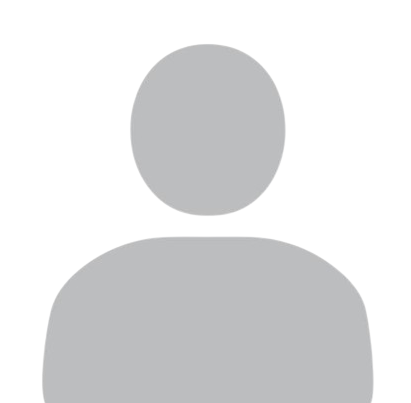
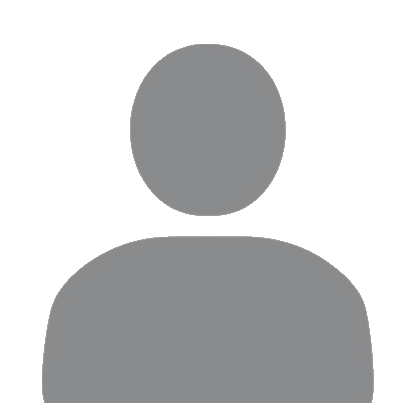
User Account and Profile Pages woking continue and set routing on it pages

diff --git a/client/src/components/Sidebar.jsx b/client/src/components/Sidebar.jsx
@@ -6,9 +6,9 @@ import LogoLight from "../assets/logo-light.png";
 import User from "../assets/user.png";
 
 // Import React Icons
-import { MdOutlineExplore } from "react-icons/md";
+import { MdOutlineExplore, MdOutlineMapsHomeWork } from "react-icons/md";
 import { MdOutlineRealEstateAgent } from "react-icons/md";
-import { RiMessage2Line } from "react-icons/ri";
+import { RiAccountBoxLine, RiMessage2Line } from "react-icons/ri";
 import { RiTeamLine } from "react-icons/ri";
 import { FaXmark } from "react-icons/fa6";
 import { PiSignOutBold, PiSignInBold } from "react-icons/pi";
@@ -17,12 +17,10 @@ import { useSelector } from "react-redux";
 const Sidebar = ({ isOpenSidebar, setIsOpenSidebar }) => {
   const location = useLocation();
   const { authenticUser } = useSelector((state) => state?.user);
-  const [isActiveTab, setIsActiveTab] = useState(
-    location.pathname.split("/")[1]
-  );
+  const [isActiveTab, setIsActiveTab] = useState(location.pathname);
 
   useEffect(() => {
-    setIsActiveTab(location.pathname.split("/")[1]);
+    setIsActiveTab(location.pathname);
   }, [location]);
 
   return (
@@ -61,18 +59,20 @@ const Sidebar = ({ isOpenSidebar, setIsOpenSidebar }) => {
 
         {/* Sidebar Body */}
         <div className="w-full h-[90%] relative flex flex-col">
+          {/* Navigations */}
           <div className="w-full h-[70%] pr-[0.6rem] pt-[1.5rem] pb-[1rem]">
             <ul className="w-full flex flex-col gap-[0.8rem]">
               {[
                 [MdOutlineExplore, "Explore", "/explore"],
-                [MdOutlineRealEstateAgent, "Add Property", "/add-property"],
                 [RiTeamLine, "About", "/about"],
                 [RiMessage2Line, "Contact", "/contact"],
+                [MdOutlineRealEstateAgent, "Add Property", "/add-property"],
+                [MdOutlineMapsHomeWork, "My Properties", "/user/properties"],
               ].map(([Icon, title, route], index) => (
                 <li
                   key={index}
                   className={`${
-                    isActiveTab === route.split("/")[1]
+                    isActiveTab === route
                       ? "before:translate-x-[-20%]"
                       : "before:translate-x-[-100%] hover:before:translate-x-[0%]"
                   } w-full relative overflow-hidden before:content-[''] before:w-[100%] before:h-[100%] before:z-0 before:absolute before:top-0 before:left-0 before:bg-[#0c2e38] before:rounded-e-full before:transition before:ease-out before:duration-[0.4s] peer/navItem`}
@@ -81,13 +81,13 @@ const Sidebar = ({ isOpenSidebar, setIsOpenSidebar }) => {
                     to={route}
                     onClick={() => setIsOpenSidebar(!isOpenSidebar)}
                     className={`${
-                      isActiveTab === route.split("/")[1]
+                      isActiveTab === route
                         ? "text-theme-yellow border-theme-yellow border-l-[0.3rem]"
                         : "text-white border-white hover:border-l-[0.3rem]"
                     } w-full relative z-10 flex items-center gap-[1.5rem] px-[1.5rem] py-[1rem]`}
                   >
-                    <Icon className="text-[2.6rem]" />
-                    <span className="text-[2.3rem] leading-[2rem] font-semibold">
+                    <Icon className="text-[2.5rem]" />
+                    <span className="text-[2.2rem] leading-[2rem] font-semibold">
                       {title}
                     </span>
                   </Link>
@@ -96,8 +96,9 @@ const Sidebar = ({ isOpenSidebar, setIsOpenSidebar }) => {
             </ul>
           </div>
 
+          {/* Footer  */}
           <footer className="w-full flex flex-col px-[0.8rem] py-[1.5rem] absolute z-50 bottom-0 border-t-[0.2rem] border-cyan-950">
-            {/* Profile and Logout Buttons */}
+            {/* Signin Button */}
             {!authenticUser && (
               <div className="w-full">
                 <Link to={"/account/sign-in"}>
@@ -112,29 +113,37 @@ const Sidebar = ({ isOpenSidebar, setIsOpenSidebar }) => {
               </div>
             )}
 
-            {/* Profile and Logout Buttons */}
+            {/* Profile, Account and Logout Buttons */}
             {authenticUser && (
               <div className="w-full flex flex-col gap-[1.5rem]">
-                <Link to={"/profile"}>
+                <Link to={"/user/profile"}>
                   <button
                     onClick={() => setIsOpenSidebar(!isOpenSidebar)}
-                    className="w-full relative flex items-center gap-[1.2rem] px-[1.2rem] py-[1rem] text-[2.2rem] leading-[3.2rem] text-cyan-950 font-semibold bg-white cursor-pointer rounded-full transition-all hover:bg-theme-yellow active:scale-[0.98]"
+                    className="w-full relative flex items-center gap-[1.2rem] px-[1.2rem] py-[0.7rem] text-[2.2rem] leading-[3.2rem] text-white font-semibold bg-transparent border-[0.2rem] border-white cursor-pointer rounded-full transition-all hover:bg-theme-blue active:scale-[0.98]"
                   >
                     <img
                       src={User}
                       alt="profile"
-                      className="w-[2.9rem] rounded-full bg-cyan-950 p-[0.2rem]"
+                      className="w-[2.9rem] rounded-full bg-white p-[0.2rem]"
                     />
                     <span>Profile</span>
-                    <span className="flex items-center justify-center min-w-[3rem] min-h-[3rem] p-[0.4rem] absolute right-[0.8rem] text-[1.4rem] leading-[1rem] font-semibold font-quick text-white bg-red-500 rounded-full overflow-hidden">
-                      99+
-                    </span>
                   </button>
                 </Link>
 
+                <Link to="/user/account">
+                  <button
+                    onClick={() => setIsOpenSidebar(!isOpenSidebar)}
+                    className="w-full relative flex items-center gap-[1rem] px-[1.4rem] py-[0.7rem] text-[2.2rem] leading-[3.2rem] text-cyan-950 font-semibold bg-white cursor-pointer rounded-full transition-all hover:bg-theme-yellow active:scale-[0.98]"
+                  >
+                    <RiAccountBoxLine size={"3rem"} />
+                    <span>Account</span>
+                  </button>
+                </Link>
+
+                {/* Logout Button */}
                 <button
                   onClick={() => setIsOpenSidebar(!isOpenSidebar)}
-                  className="w-full relative flex items-center gap-[1rem] px-[1.4rem] py-[1rem] text-[2.2rem] leading-[3.2rem] text-cyan-950 font-semibold bg-white cursor-pointer rounded-full transition-all hover:bg-theme-yellow active:scale-[0.98]"
+                  className="w-full relative flex items-center gap-[1rem] px-[1.4rem] py-[0.7rem] text-[2.2rem] leading-[3.2rem] text-cyan-950 font-semibold bg-white cursor-pointer rounded-full transition-all hover:bg-theme-yellow active:scale-[0.98]"
                 >
                   <PiSignOutBold size={"3rem"} />
                   <span>Logout</span>

diff --git a/client/src/components/Header.jsx b/client/src/components/Header.jsx
@@ -82,7 +82,7 @@ const Header = ({ setIsOpenSidebar }) => {
             <div className="authBtns hidden tabletSm:flex items-center gap-[1.4rem]">
               {/* Signin Button */}
               <Link to="/account/sign-in">
-                <button className="signinBtn text-[1.7rem] leading-[1.6rem] font-semibold text-theme-blue p-[0.8rem] rounded-md hover:text-theme-yellow border-[0.2rem] border-theme-blue hover:bg-theme-blue hover:text-white transition-all ">
+                <button className="signinBtn text-[1.7rem] leading-[1.6rem] font-semibold text-theme-blue p-[0.8rem] rounded-md border-[0.2rem] border-theme-blue hover:bg-theme-blue hover:text-theme-yellow transition-all ">
                   Sign in
                 </button>
               </Link>
@@ -98,7 +98,7 @@ const Header = ({ setIsOpenSidebar }) => {
 
           {/*  Add Property Button & Profile Avatar */}
           {authenticUser && (
-            <div className="profile relative hidden tabletSm:flex items-center gap-[1.5rem] px-[0.5rem] tabletSm:px-0">
+            <div className="relative hidden tabletSm:flex items-center gap-[1.5rem] px-[0.5rem] tabletSm:px-0">
               {/* Add Property Button */}
               <Link to="/add-property">
                 <button className="addPropertyBtn  hidden tabletLg:flex items-center gap-[0.5rem] text-[1.6rem] leading-[1rem] font-semibold bg-theme-yellow text-theme-blue px-[1.2rem] py-[1rem] rounded-md hover:bg-theme-blue hover:text-white transition-all ">
@@ -112,7 +112,7 @@ const Header = ({ setIsOpenSidebar }) => {
                 <img
                   src={User}
                   alt="profile"
-                  className="w-[3.2rem] rounded-full bg-theme-blue object-cover cursor-pointer"
+                  className="w-[3.2rem] rounded-full bg-neutral-200 object-cover cursor-pointer"
                   onClick={() => setIsOpenProfileDropdown(true)}
                 />
 
@@ -120,9 +120,9 @@ const Header = ({ setIsOpenSidebar }) => {
                 <div
                   ref={dropdownRef}
                   onMouseLeave={() => setIsOpenProfileDropdown(false)}
-                  className={`accountDropdown absolute top-[148%] right-0 z-[-1] bg-white rounded-lg overflow-hidden shadow-xl p-[0.6rem] flex flex-col gap-[0.5rem] ${
+                  className={`accountDropdown absolute top-[148%] right-0 z-[-1] bg-white rounded-lg overflow-hidden shadow-xl p-[0.6rem] flex flex-col gap-[0.6rem] ${
                     isOpenProfileDropdown
-                      ? "h-[19rem] opacity-100"
+                      ? "h-[20rem] opacity-100"
                       : "h-0 opacity-0"
                   } transition-all`}
                 >
@@ -130,19 +130,19 @@ const Header = ({ setIsOpenSidebar }) => {
                     My Account
                   </h6>
 
-                  <ul className="w-[20rem] text-[1.6rem] leading-[1.6rem] font-semibold text-theme-blue flex flex-col gap-[0.2rem] select-none ">
+                  <ul className="w-[20rem] text-[1.6rem] leading-[2rem] font-semibold text-theme-blue flex flex-col gap-[0.1rem] select-none ">
                     <li className="flex items-center gap-[0.8rem] p-[0.8rem] cursor-pointer hover:bg-neutral-100 hover:text-neutral-800 rounded-sm transition-all whitespace-nowrap ">
                       <FiUser size="1.8rem" />
                       <span>Profile</span>
                     </li>
 
                     <li className="flex items-center gap-[0.8rem] p-[0.8rem] cursor-pointer hover:bg-neutral-100 hover:text-neutral-800 rounded-sm transition-all whitespace-nowrap">
-                      <RiAccountBoxLine size="1.9rem" />
+                      <RiAccountBoxLine size="2rem" />
                       <span>Account</span>
                     </li>
 
                     <li className="flex items-center gap-[0.8rem] p-[0.8rem] cursor-pointer hover:bg-neutral-100 hover:text-neutral-800 rounded-sm transition-all whitespace-nowrap">
-                      <MdOutlineMapsHomeWork size="1.8rem" />
+                      <MdOutlineMapsHomeWork size="1.9rem" />
                       <span>My Properties</span>
                     </li>
 

diff --git a/client/src/components/User/Profile.jsx b/client/src/components/User/Profile.jsx
@@ -1,7 +1,82 @@
-import React from "react";
+import React, { useState } from "react";
+
+// Import React Icons
+import { FaCameraRetro } from "react-icons/fa";
+
+// Import Assets
+import ProfileAvatar from "../../assets/user.png";
+import { useSelector } from "react-redux";
 
 const Profile = () => {
-  return <div className="w-full">Profile</div>;
+  const currentUser = useSelector((state) => state?.user?.authenticUser);
+  const [profilePic, setProfilePic] = useState(ProfileAvatar);
+
+  const imagesChangeHandler = (e) => {
+    const imageFile = e.target.files[0];
+
+    if (imageFile) {
+      const imageURL = URL.createObjectURL(imageFile);
+      setProfilePic(imageURL);
+    }
+  };
+  return (
+    <div className="w-full px-[2rem]">
+      {/* Profile Header */}
+      <div className="header text-neutral-800 border-b-[0.2rem] border-neutral-200 pb-[1rem]">
+        <h1 className="text-[2.5rem] leading-[3rem] font-bold">Profile</h1>
+        <p className="text-[1.4rem] font-medium">Manage your Profile</p>
+      </div>
+
+      <div className="w-full flex flex-col gap-[3rem] py-[3rem]">
+        {/* Profile Image */}
+        <section className="flex flex-col items-start gap-[1rem]">
+          <h2 className="text-[1.8rem] leading-[2rem] font-semibold">
+            Profile Picture
+          </h2>
+          <div className="relative">
+            <img
+              src={profilePic}
+              alt="Profile Pic"
+              className="w-[12rem] h-[12rem] rounded-full object-cover bg-neutral-200"
+            />
+
+            <label
+              htmlFor="uploadPicture"
+              className="absolute bottom-[0.5rem] right-[0.5rem] bg-theme-blue p-[0.8rem] cursor-pointer rounded-full"
+            >
+              <input
+                type="file"
+                name="uploadPicture"
+                id="uploadPicture"
+                accept=".jpg, .png, .jpeg"
+                onChange={imagesChangeHandler}
+                className="hidden"
+              />
+              <FaCameraRetro className="text-[1.8rem] text-neutral-200" />
+            </label>
+          </div>
+        </section>
+
+        {/* Username */}
+        <section className="flex flex-col items-start gap-[1rem]">
+          <label
+            htmlFor="username"
+            className="text-[1.8rem] leading-[2rem] font-semibold"
+          >
+            Your Name
+          </label>
+          <input
+            type="text"
+            name="username"
+            id="username"
+            defaultValue={currentUser?.username}
+            onChange={(e) => console.log(e.target.value)}
+            className="w-[50%] min-w-[40rem] outline-none border-b-[0rem] text-neutral-800 border-neutral-200 font-medium px-[0rem] py-[0.8rem] text-[1.7rem] leading-[1.7rem] focus:border-theme-blue"
+          />
+        </section>
+      </div>
+    </div>
+  );
 };
 
 export default Profile;

diff --git a/client/src/pages/User.jsx b/client/src/pages/User.jsx
@@ -19,8 +19,8 @@ const User = () => {
   return (
     <div className="userCont w-full h-dvh relative pt-[6rem]">
       <div className="userContWrapper h-full flex items-center mx-[4%]">
-        <aside className="w-[25rem] h-[calc(100dvh-12rem)] border-r-[0.1rem] border-neutral-200">
-          <ul className="w-[100%] flex flex-col gap-[0.5rem]">
+        <aside className="w-[25rem] h-[calc(100dvh-12rem)] border-r-[0.2rem] border-neutral-200">
+          <ul className="w-[100%] flex flex-col gap-[0.2rem]">
             {[
               [FiUser, "Profile", "profile"],
               [RiAccountBoxLine, "Account", "account"],
@@ -32,7 +32,7 @@ const User = () => {
                   isActiveTab === route
                     ? "before:translate-x-[-10%] before:bg-theme-blue"
                     : "before:translate-x-[-100%] hover:before:translate-x-[0%] before:bg-neutral-100"
-                } w-[90%] relative overflow-hidden before:content-[''] before:w-full before:h-full before:z-0 before:absolute before:top-0 before:left-0 before:rounded-e-lg before:transition before:ease-out before:duration-[0.4s] peer/navItem`}
+                } w-[90%] relative overflow-hidden before:content-[''] before:w-full before:h-full before:z-0 before:absolute before:top-0 before:left-0 before:rounded-e-full before:transition before:ease-out before:duration-[0.4s] peer/navItem`}
               >
                 <Link
                   to={route}
@@ -40,16 +40,10 @@ const User = () => {
                     isActiveTab === route
                       ? "text-white font-medium"
                       : "text-neutral-500 font-semibold"
-                  } w-full relative z-10 flex items-center gap-[1.5rem] px-[1rem] py-[0.8rem]`}
+                  } w-full relative z-10 flex items-center gap-[1rem] px-[1rem] py-[0.8rem]`}
                 >
-                  <Icon
-                    className={`${
-                      Icon === RiAccountBoxLine
-                        ? "text-[2.3rem]"
-                        : "text-[2.1rem]"
-                    }`}
-                  />
-                  <span className="text-[1.7rem] leading-[1.7rem]">
+                  <Icon className="text-[2.1rem]" />
+                  <span className="text-[1.75rem] leading-[1.8rem]">
                     {title}
                   </span>
                 </Link>
@@ -57,6 +51,7 @@ const User = () => {
             ))}
           </ul>
         </aside>
+
         <main className="flex-1 h-full overflow-auto scrollbar pt-[3rem]">
           <Outlet />
         </main>

diff --git a/client/src/pages/AddProperty.jsx b/client/src/pages/AddProperty.jsx
@@ -1104,7 +1104,7 @@ const AddProperty = () => {
                       onChange={usernameChangeHandler}
                       placeholder="Enter your full name"
                       autoComplete="off"
-                      className="w-full outline-none border-[0.2rem] text-neutral-800 border-neutral-300 font-medium px-[1.5rem] py-[1.1rem] text-[1.6rem] leading-[1.6rem] rounded-md focus:border-theme-blue numberInput peer/price"
+                      className="w-full outline-none border-[0.2rem] text-neutral-800 border-neutral-300 font-medium px-[1.5rem] py-[1.1rem] text-[1.6rem] leading-[1.6rem] rounded-md focus:border-theme-blue"
                     />
                   </div>
 
@@ -1118,7 +1118,7 @@ const AddProperty = () => {
 
               {/* Availability */}
               <div className="availability w-full flex flex-col gap-[0.5rem]">
-                {/* Title */}
+                {/* Title and Toggle */}
                 <h4 className="propertyFormInputTitles w-full tabletSm:w-[70%] tabletSm:min-w-[50rem] flex items-center justify-between">
                   <span>Specify availability</span>
 

diff --git a/client/src/App.jsx b/client/src/App.jsx
@@ -73,7 +73,14 @@ const AppRoutes = () => {
           <Route path="/account/verification" element={<VerifyAccount />} />
         </Route>
 
-        <Route path="/user/" element={<User />}>
+        <Route
+          path="/user/"
+          element={
+            <UnAuthProtectedRoute>
+              <User />
+            </UnAuthProtectedRoute>
+          }
+        >
           <Route path="profile" element={<Profile />} />
           <Route path="account" element={<Account />} />
           <Route path="properties" element={<MyProperties />} />
